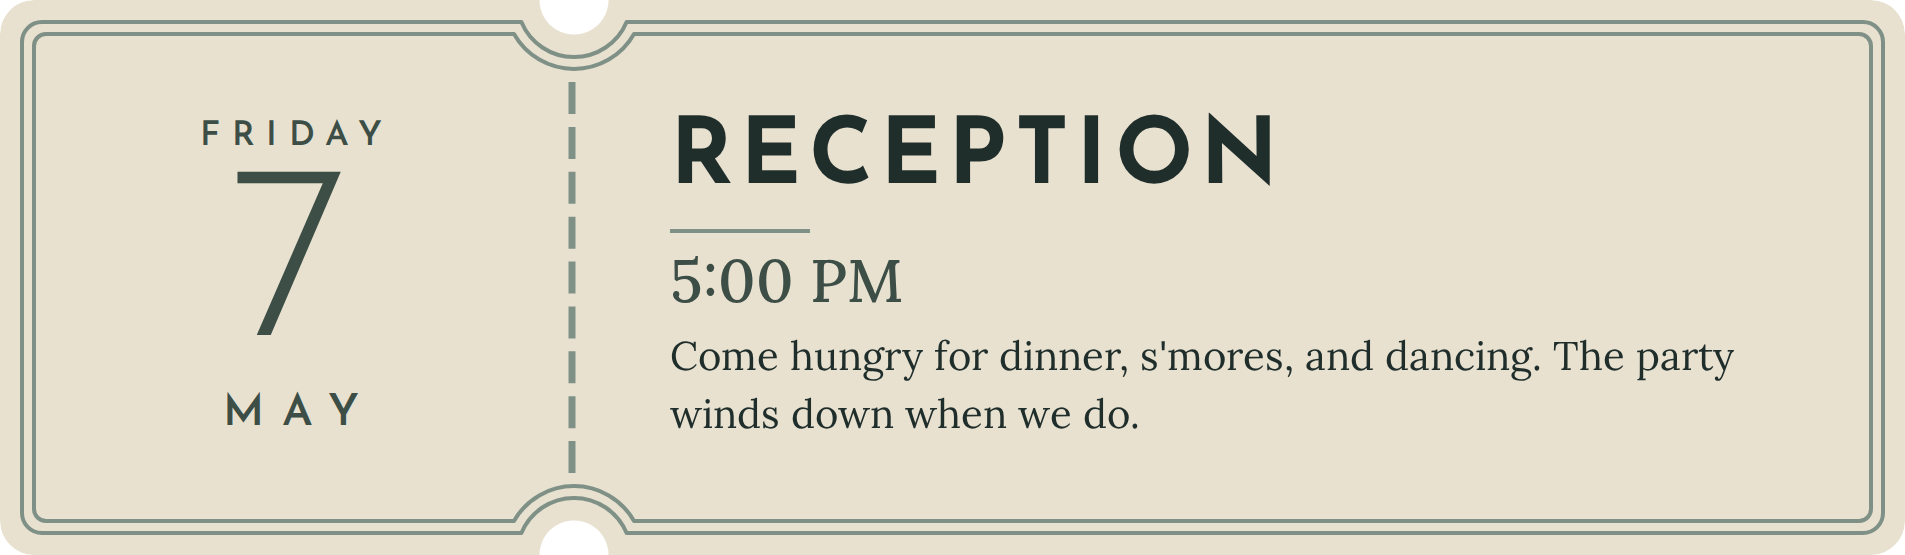
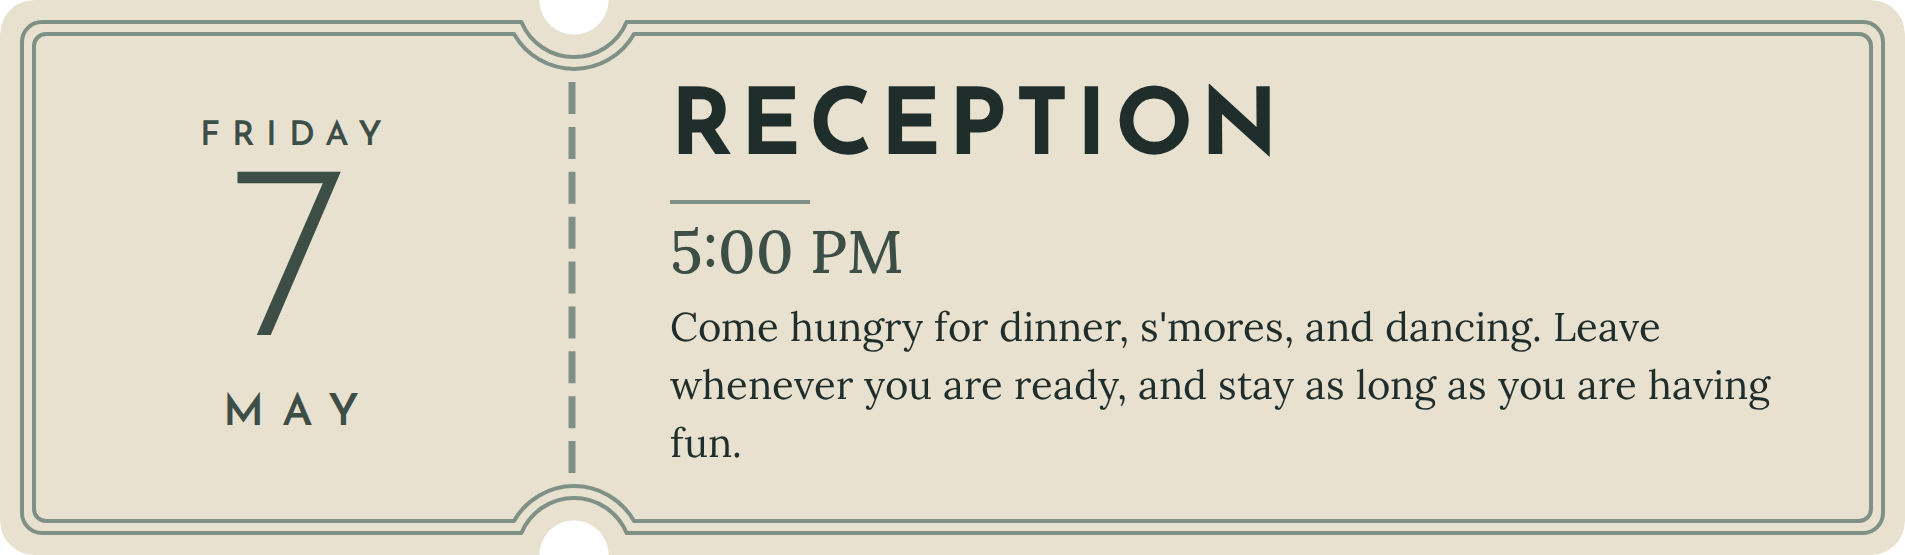
deploy: 6aec3e4bec508dc6a0afebe4aa6cddc6fd44d823

Changed region(s): [[0.3407, 0.3982, 0.9291, 0.827], [0.3407, 0.1532, 0.6814, 0.3676]]

diff --git a/assets/events-data.js b/assets/events-data.js
@@ -17,8 +17,8 @@ window.WEDDING_EVENTS = [
     date: "6th",
     time: "4:00 PM",
     end: "9:00 PM",
-    description: "Thank you for staying with us at the Lodge! Check in is at 4pm, and we will be getting set up, eating some dinner, and hanging out before the big day.",
-    cardDesc: "Check in at the Lodge, get settled, eat dinner, and hang out before the big day.",
+    description: "Check in is at 4pm. We'll be getting set up, eating some dinner, and hanging out before the big day.",
+    cardDesc: "Check in at the lodge, get settled, eat dinner, and hang out before the big day.",
   },
   {
     key: "fri_reception_party",
@@ -28,11 +28,11 @@ window.WEDDING_EVENTS = [
     time: "5:00 PM",
     end: "11:59 PM",
     description: "Come hungry for dinner, s'mores, and dancing.",
-    cardDesc: "Come hungry for dinner, s'mores, and dancing. The party winds down when we do.",
+    cardDesc: "Come hungry for dinner, s'mores, and dancing. Leave whenever you are ready, and stay as long as you are having fun.",
     intro: "Let the party begin!",
     details: [
-      { label: "Attire", value: "Sundresses, khakis or jeans, and short-sleeve summery polos" },
-      { label: "Bring", value: "Layers, evenings in the mountains can get chilly" },
+      { label: "Attire", value: "Dressy casual (Think sundresses, khakis or jeans, and summery polos" },
+      { label: "Bring", value: "Shoes that are comfortable on grass" },
       { label: "Weather", value: "If the weather turns, we'll move the party inside" },
     ],
   },
@@ -47,9 +47,9 @@ window.WEDDING_EVENTS = [
     cardDesc: "A laid-back field day with games, movies, and good company. Come and go as you like.",
     intro: "Not ready for the party to end? Neither are we!",
     details: [
-      { label: "Attire", value: "Whatever's comfortable and easy to move in" },
+      { label: "Attire", value: "Wear whatever lets you move, play, and enjoy the day." },
       { label: "Bring", value: "A swimsuit if you plan on jumping in the pond" },
-      { label: "Weather", value: "If the weather turns, we'll have movies, card games, billiards, and more fun inside" },
+      { label: "Weather", value: "Rain or shine, we'll have plenty to do inside with movies, games, and billiards" },
     ],
   },
   {
@@ -59,7 +59,7 @@ window.WEDDING_EVENTS = [
     date: "9th",
     time: "11:30 AM",
     end: "1:30 PM",
-    description: "Please joining us in celebrating all the mothers in our lives. After checkout, we will head in town to [make reservation] to enjoy a Mother's Day brunch before everyone heads home.",
+    description: "Please joining us in celebrating all the mothers in our lives. After checkout, we will head into town to enjoy a Mother's Day brunch before everyone heads home.",
     cardDesc: "Celebrate all the mothers in our lives over brunch in town before everyone heads home.",
   },
 ];
